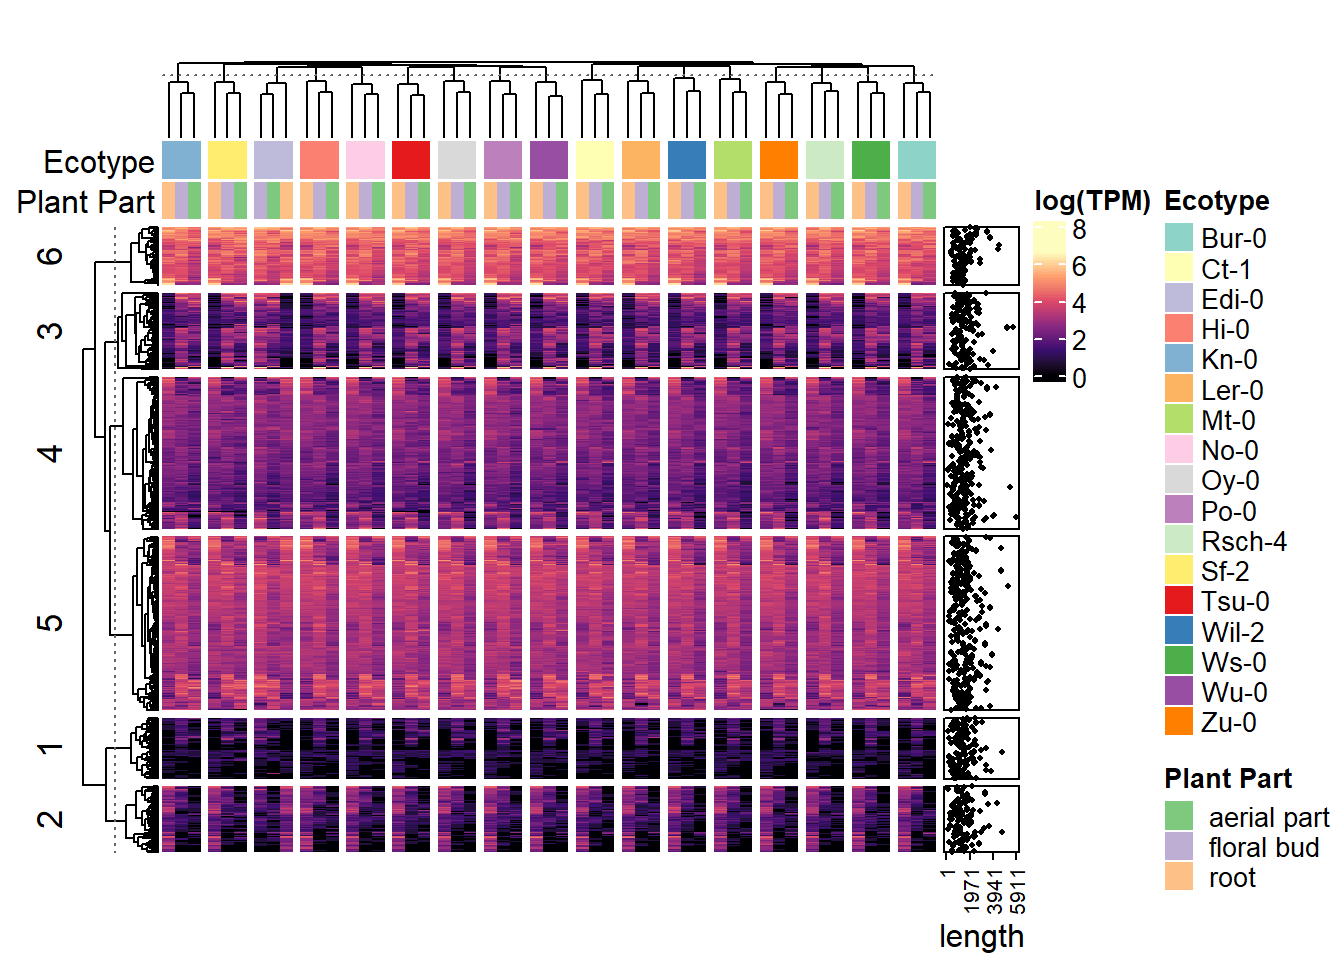
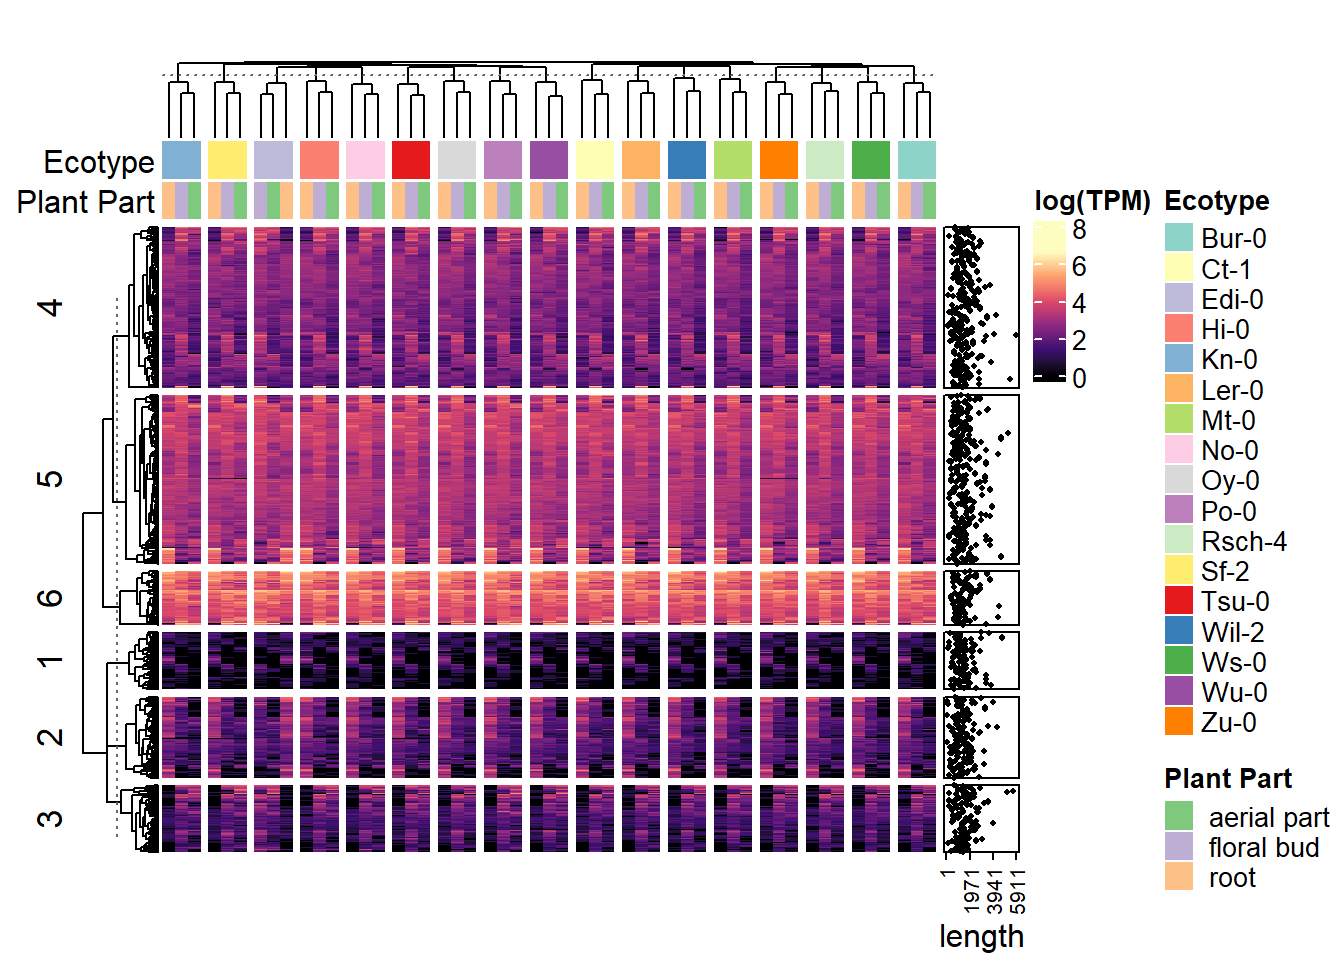
finalize RNAseq

Changed region(s): [[0.0312, 0.2188, 0.75, 0.9062], [0.0312, 0.25, 0.0625, 0.2812]]

diff --git a/RNA-seq Part 1.html b/RNA-seq Part 1.html
@@ -123,7 +123,7 @@ pre > code.sourceCode > span > a:first-child::before { text-decoration: underlin
     <div>
     <div class="quarto-title-meta-heading">Modified</div>
     <div class="quarto-title-meta-contents">
-      <p class="date-modified">March 17, 2025</p>
+      <p class="date-modified">March 30, 2025</p>
     </div>
   </div>
     
@@ -238,7 +238,7 @@ FBgn0243586 6.966860  7.769756 24146.95 3.698699e-33 5.499595e-30</code></pre>
 </div>
 <p>As seen above, the analysis brought back the top ten genes from the test that was ran. FDR is the variable in focus here since it allows us to identify the genes that vary between the two instars. Using <a href="https://flybase.org/">FlyBase</a>, I can search for these genes and see what functions they are associated with.</p>
 <table class="table-striped table-hover table">
-<caption>RNA data</caption>
+<caption>RNA Functions</caption>
 <colgroup>
 <col style="width: 11%">
 <col style="width: 26%">
@@ -316,6 +316,9 @@ FBgn0243586 6.966860  7.769756 24146.95 3.698699e-33 5.499595e-30</code></pre>
 </tr>
 </tbody>
 </table>
+<p>This table I made summarizes some of the categories listed that each gene has some part in. Most of them have at least some influence in cell components, particularly plasma membranes and other features related to the membrane. A handful also influenced development, and two were a part of structural molecular function, particularly in the formation of chitin according to FlyBase.</p>
+<p>My hypothesis for why these genes in particular are so different between the first and second instar is because of the formation of an exoskeleton during larval development. Maybe the genes affecting membranes are aiding in the development of a chitinous outer layer, sort of like the keratinized cells on the outermost layer of skin.</p>
+<p>This exercise was good surface-level introduction to bioinformatics. I learned how to import RNA data to create a usable object, and how to apply that to a function that analyzes the differences in expression. I tried to do a small look into the fuctions of the genes that were selected by the earlier test, so I’m curious to see how we will learn to visualize our results in class.</p>
 </section>
 </section>
 

diff --git a/RNA-seq Part 2.html b/RNA-seq Part 2.html
@@ -134,7 +134,7 @@ pre > code.sourceCode > span > a:first-child::before { text-decoration: underlin
 <p><img src="RNA-seq-Part-2_files/figure-html/draw%20heatmap-1.png" class="img-fluid" width="672"></p>
 </div>
 </div>
-<p>Note: some expression within Edi-0 ecotype are “swapped” with expressions from one plant part looking like the distributions expected in the others in different ecotypes.</p>
+<p>At first glance, the distribution of gene expression between different ecotypes seems largely uniform. Plant parts do seem to vary from each other, but between their different forms, expression is similar. At first I thought ecotype Edi-0 had an interesting case where the expression between its parts looked “swapped” compared to others, but then I realized the heatmap changed how its data was arranged compared to the others. In reality, they resemble the others.</p>
 
 </main>
 <!-- /main column -->
